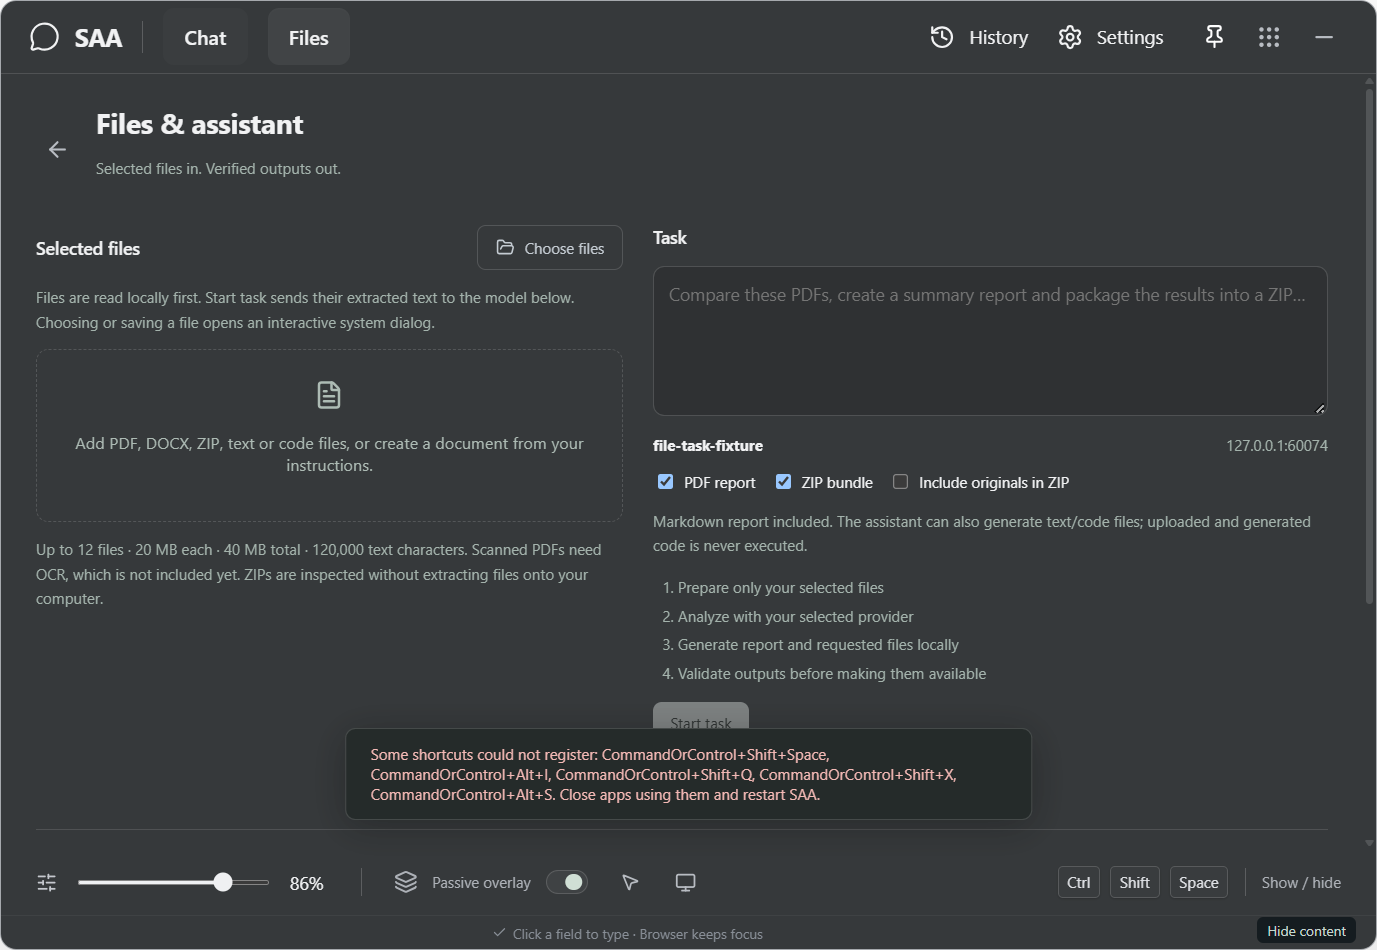
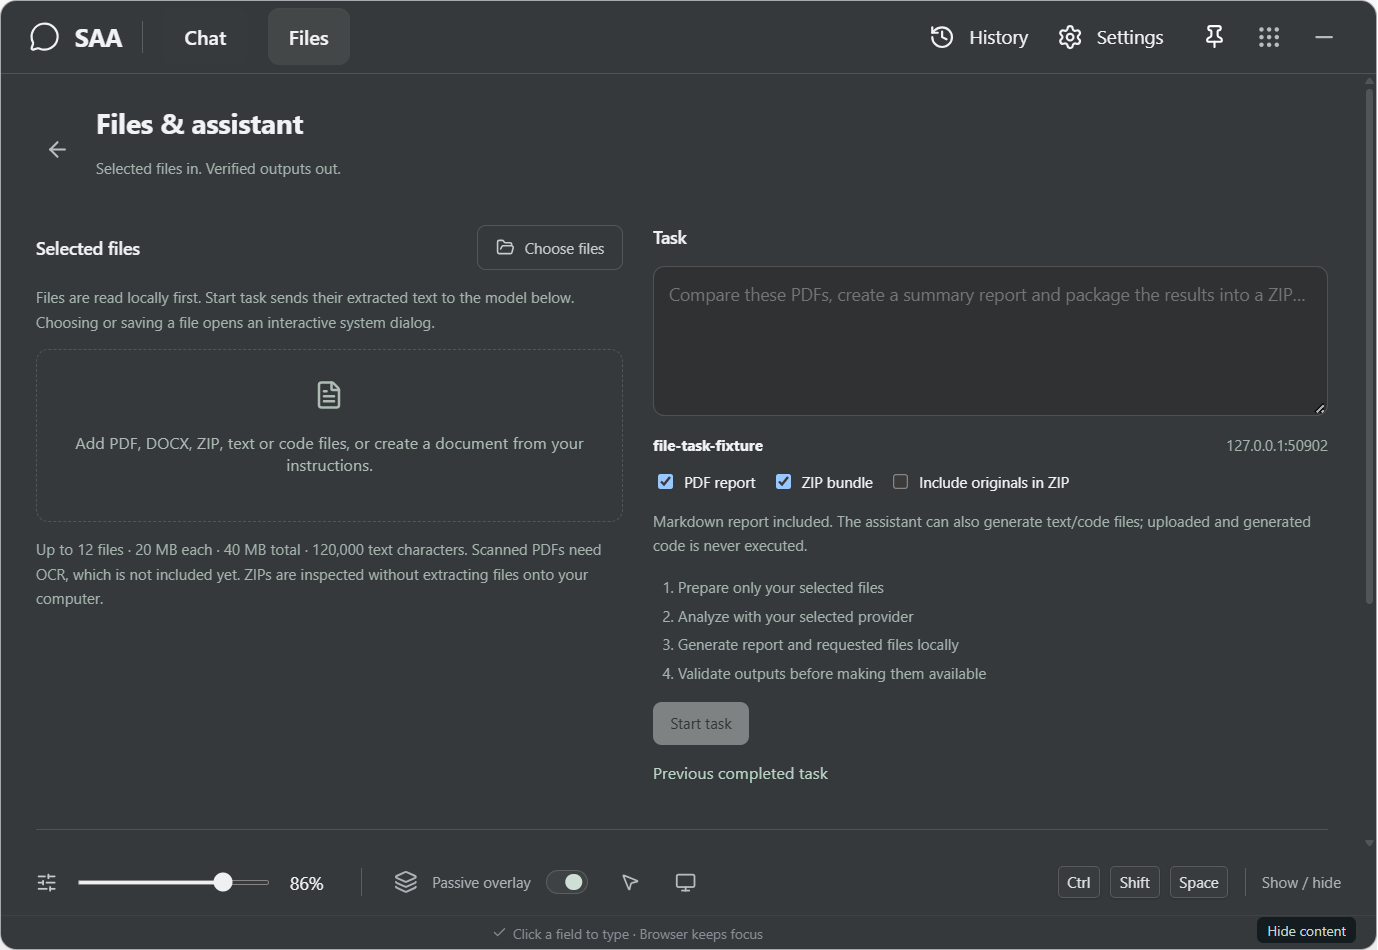
Document assistant release and tighten damaged-manifest regression coverage

Changed region(s): [[0.2808, 0.7632, 0.6865, 0.8547], [0.9361, 0.4579, 0.9673, 0.4884]]

diff --git a/README.md b/README.md
@@ -1,5 +1,19 @@
 # SAA
 
+## v0.2.0 selected-file assistant
+
+Install `release/SAA-0.2.0-Setup.exe` on Windows, or download the [Mac app](https://github.com/Trek91/SAA/releases/tag/mac-v0.2.0). Quit the old app before updating. Existing chats and provider settings use the same data folder and format.
+
+Open **Files**, choose PDF/DOCX/ZIP or UTF-8 text/code files, inspect the extracted text, describe your task and select PDF/ZIP outputs. **Start task** sends only those selected files' extracted text and your instructions to the configured model. Selection itself is local. No other conversations, credentials or computer files are supplied. The assistant follows a bounded prepare → analyze → generate → verify workflow; it has no shell, browser, directory scanning, uploaded-code execution or model-selected filesystem paths.
+
+Outputs include `report.md`, an optional formatted Unicode PDF, an optional ZIP, and up to ten text/code files suggested by the model. ZIPs can include originals only when you select that option. Results appear after format/integrity verification; that does not verify the factual accuracy of AI conclusions. Each Save action opens a native destination dialog. Originals selected in the current session cannot be overwritten. Completed tasks can be reopened or deleted from **Completed tasks** and survive restart without resending a request. Selected source files are memory-only and must be selected again after restart.
+
+Limits: 12 files, 20 MB each, 40 MB total; 100 ZIP entries / 40 MB expanded; 200 PDF pages; 120,000 extracted text characters. Parsing workers have a 30-second timeout and tasks a three-minute timeout. Scanned PDFs need OCR, which is not included. Password-protected PDFs/ZIPs, legacy DOC, Excel formats and recursive nested archives are not supported. Unsupported members inside ZIPs are listed without reading their content. Parsing workers keep processing off the UI thread; they are not security sandboxes or hard total-memory limits.
+
+Privacy: task reports, manifests and outputs are saved **unencrypted** under the application data folder's `assistant` directory. They can contain sensitive selected-file content. Use task deletion for local cleanup; files previously exported elsewhere remain yours to manage. Provider credentials retain OS encryption. The privacy curtain covers this workspace; PDF rendering stays hidden, unfocused, capture-protected, script-free and network-blocked. File selection and export use interactive system dialogs, so choose files before browser fullscreen and switch back to passive mode afterward. Existing capture-exclusion platform limits remain.
+
+`npm run check:assistant` checks real text/PDF/DOCX/ZIP ingestion, selected-only request context, real PDF/ZIP export, source preservation, capability rejection, renderer privacy, cancellation, chat access and restart. The 42-test suite includes malicious archives, limits, output tampering, unknown IDs, damaged manifests and crash leftovers. No real API keys or paid calls are used by these checks.
+
 ## v0.1.8 interface update
 
 Answers have a visible **Copy answer** button and fenced code blocks have **Copy code**, a language label and local syntax colors. Clipboard failures appear beside the control. Markdown is memoized for unchanged messages, and scrolling up during a response pauses automatic scrolling. Remote images embedded in model output are blocked to prevent tracking requests; your own image attachments continue to display.

diff --git a/docs/QA.md b/docs/QA.md
@@ -125,3 +125,14 @@ The Mac workflow runs the same refinement checks alongside native fullscreen inp
 
 The privacy curtain hides screen content, not the saved files or OS clipboard. Capture exclusion retains existing platform limitations. Saved models shows the current model for each provider profile; it is not an archive of previously overwritten model IDs.
 
+## Selected-file assistant upgrade v0.2.0 (2026-11-13)
+
+42 automated tests pass, including bounded UTF-8/code reads, PDF page extraction, rejected scanned/malformed PDFs, archive traversal/symlink/duplicate/expansion limits, output name validation, source preservation, model-response validation, cancellation, worker failures, damaged manifest handling, crash leftovers, capability enforcement and output hash checks. Independent security review found and verified fixes for unbounded source reads, orphan recovery and damaged metadata; no concrete release blockers remain.
+
+Source and packaged Windows assistant E2E pass: real selected text/PDF/DOCX/ZIP extraction, local selection with zero requests, only selected content reaching a mock provider, actual Unicode Markdown-formatted PDF and ZIP creation/export, exact source bytes preserved, unknown output/file IDs rejected, cancellation and restart without another request. The print renderer is asserted hidden, unfocused and capture-protected. Scripts/networking are blocked; uploaded/generated code is never executed. Existing Windows desktop/Edge fullscreen, history, refinements, packaged real-mouse providers and independent pixel capture-exclusion checks pass.
+
+Both Mac architectures run signature verification, 42 tests, persistence, native fullscreen input, refinements and the assistant E2E before archiving the tested bundle. Build evidence: https://github.com/Trek91/SAA/actions/runs/43376961862 .
+
+The model gets a fixed tool-less assistant system instruction plus the explicit task and selected extracted text. This provides a controlled workflow, not an unrestricted autonomous computer agent. Prompt-injected file text cannot grant tools or access unselected IDs. Findings still need human review; output verification concerns file structure/integrity, not truthfulness. Workers are responsiveness/isolation boundaries within the process, not OS security sandboxes. PDF rendering uses a separate sandboxed Electron renderer.
+
+Known limits: source text is bounded; PDF pages without text require OCR; encrypted documents and legacy Office formats are unsupported. Task storage is plaintext under userData/assistant, separately deletable without removing chat history; exported copies are not removed by task deletion. Native pick/save dialogs intentionally switch to interactive mode. Mac recorder exclusion limitations and first-launch approval remain unchanged.

diff --git a/docs/superpowers/plans/2026-11-13-selected-file-assistant.md b/docs/superpowers/plans/2026-11-13-selected-file-assistant.md
@@ -48,4 +48,4 @@ Files: src/components/AssistantPanel.tsx, src/domain/types.ts, src/infrastructur
 Files: scripts/verify-assistant.cjs, .github/workflows/build-macos.yml, package.json, README.md, docs/QA.md.
 - [x] Local fixture end-to-end: select/analyze text/PDF/ZIP, mock provider context, create/read PDF and ZIP, cancel, blocked IDs/paths, restart.
 - [x] Existing tests: copying/refinements, provider credentials, history, desktop fullscreen/capture.
-- [ ] Build Windows installer and both Mac versions; execute packaged checks before publishing. Record limits (OCR/legacy Office not included).
+- [x] Build Windows installer and both Mac versions; execute packaged checks before publishing. Record limits (OCR/legacy Office not included).
